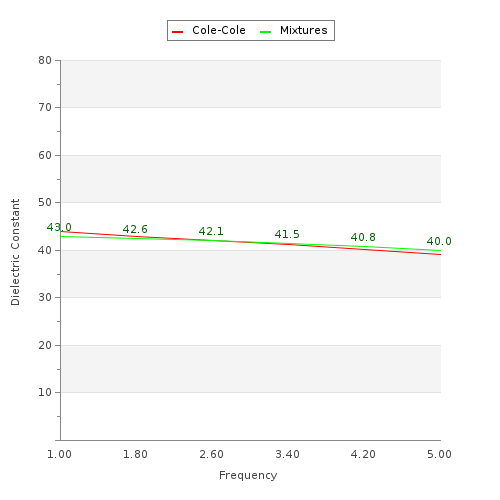
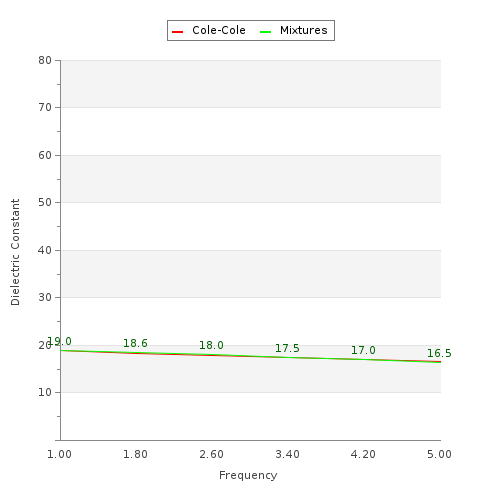
Image elargie

diff --git a/style/style3.css b/style/style3.css
@@ -17,8 +17,10 @@
 }
 
 .paragraph_exp{
-	text-align: left;
+	text-align: justify;
 	margin-bottom: 1.5em;
+	padding: 0% 15% 2% 15%;
+
 }
 
 .red_star_note{
@@ -70,9 +72,9 @@ label{
 
 redStar{
 	font-family: "Noto Sans Bold", sans-serif;
-	font-weight: bold;
+	font-weight: medium;
 	color: #961e64;
-	font-size: 1.1em;
+	font-size: 1em;
 }
 
 #result_line{

diff --git a/style/style.css b/style/style.css
@@ -105,6 +105,7 @@ header
 /************************* SLIDER *********************/
 figure {
 	display: inline-block;
+	vertical-align:middle;
 }
 
 #slideshow {

diff --git a/python/colecole.py b/python/colecole.py
@@ -15,30 +15,30 @@ def colecoleFonction(choix,low_range,high_range,step):
     N=[]
     w=2*math.pi
 
-    ef=[6.03, 6.49, 2.47, 4.0, 2.5, 4.0, 2.5, 2.5, 2.5, 2.5, 4.0, 4.0, 2.5, 4.0, 4.0, 4.0, 4.0, 4.0, 4.0, 4.0, 4.0, 2.5, 2.5, 4.0, 4.0, 5.05, 4.0, 5.9, 4.0, 4.0, 3.0, 4.0, 4.0, 2.5, 4.0, 4.0, 4.0, 4.0, 4.0, 4.0, 4.0, 4.0, 4.0, 4.0, 4.0, 4.0, 2.5, 4.0, 4.0]
-    delta1=[60.8, 50.14, 42.43, 40.0, 16.0, 56.0, 18.0, 10.0, 9.0, 3.0, 45.0, 32.0, 3.0, 38.0, 40.0, 65.0, 45.0, 50.0, 48.0, 40.0, 50.0, 9.0, 3.0, 55.0, 66.0, 44.79, 50.0, 46.33, 47.0, 42.0, 32.0, 39.0, 45.0, 18.0, 50.0, 26.0, 40.0, 32.0, 39.0, 50.0, 48.0, 60.0, 42.0, 55.0, 55.0, 50.0, 38.0, 55.0, 65.0]
-    to1=[8.93, 7.36, 5.19, 8.842, 8.842, 8.377, 13.263, 13.263, 14.469, 7.958, 7.958, 7.958, 17.68, 13.263, 7.958, 7.958, 7.958, 7.958, 7.958, 7.958, 7.958, 7.958, 7.958, 7.579, 7.579, 5.62, 7.958, 6.81, 7.958, 7.958, 8.842, 8.842, 7.958, 7.958, 7.234, 7.958, 8.842, 7.234, 7.958, 7.958, 7.958, 7.958, 12.243, 7.958, 7.958, 7.958, 7.958, 7.958, 7.234]
+    ef=[6.03, 6.49, 2.47, 4.0, 2.5, 4.0, 2.5, 2.5, 2.5, 2.5, 4.0, 4.0, 2.5, 4.0, 4.0, 4.0, 4.0, 4.0, 4.0, 4.0, 4.0, 2.5, 2.5, 4.0, 4.0, 5.05, 4.0, 5.9, 4.0, 4.0, 3.0, 4.0, 4.0, 2.5, 4.0, 4.0, 4.0, 4.0, 4.0, 4.0, 4.0, 4.0, 4.0, 4.0, 4.0, 4.0, 2.5, 4.0, 4.0, 12.71, 14.40, 14.22, 14.75, 12.75, 14.70]
+    delta1=[60.8, 50.14, 42.43, 40.0, 16.0, 56.0, 18.0, 10.0, 9.0, 3.0, 45.0, 32.0, 3.0, 38.0, 40.0, 65.0, 45.0, 50.0, 48.0, 40.0, 50.0, 9.0, 3.0, 55.0, 66.0, 44.79, 50.0, 46.33, 47.0, 42.0, 32.0, 39.0, 45.0, 18.0, 50.0, 26.0, 40.0, 32.0, 39.0, 50.0, 48.0, 60.0, 42.0, 55.0, 55.0, 50.0, 38.0, 55.0, 65.0, 244.73, 19.93, 170.62, 207.25,112.78, 152.86]
+    to1=[8.93, 7.36, 5.19, 8.842, 8.842, 8.377, 13.263, 13.263, 14.469, 7.958, 7.958, 7.958, 17.68, 13.263, 7.958, 7.958, 7.958, 7.958, 7.958, 7.958, 7.958, 7.958, 7.958, 7.579, 7.579, 5.62, 7.958, 6.81, 7.958, 7.958, 8.842, 8.842, 7.958, 7.958, 7.234, 7.958, 8.842, 7.234, 7.958, 7.958, 7.958, 7.958, 12.243, 7.958, 7.958, 7.958, 7.958, 7.958, 7.234, 3.03*10**(3), 0.97*10**(3), 3.31*10**(3), 2.64*10**(3), 2.15*10**(3), 2.50*10**(3)]
     to1=[e*10**(-12) for e in to1]
-    alpha1=[0, 0, 0, 0.1, 0.1, 0.1, 0.22, 0.2, 0.2, 0.2, 0.1, 0.1, 0.1, 0.15, 0.1, 0.1, 0.1, 0.1, 0.1, 0.15, 0.1, 0.2, 0.2, 0.05, 0.05, 0, 0.1, 0, 0.1, 0.1, 0.1, 0.1, 0.1, 0.1, 0.1, 0.1, 0.15, 0.0, 0.1, 0.1, 0.1, 0.1, 0.1, 0.1, 0.1, 0.1, 0.1, 0.1, 0]
-    delta2=[0, 0, 0, 50, 400, 5200, 300, 180, 80, 25, 400, 100, 15, 2500, 700, 40, 200, 3000, 4000, 200, 4000, 35, 15, 40, 50, 0, 1200, 0, 3500, 1500, 100, 6000, 1000, 500, 7000, 500, 400, 1100, 280, 10000, 2500, 2000, 60, 5000, 2500, 4000, 400, 800, 30]
-    to2=[0, 0, 0, 3.183, 159.155, 132.629, 79.577, 79.577, 15.915, 15.915, 15.915, 7.958, 63.66, 144.686, 15.915, 1.592, 15.915, 159.155, 159.155, 7.958, 159.155, 15.915, 15.915, 1.592, 1.592, 0, 159.155, 0, 198.944, 79.577, 10.61, 530.516, 159.155, 63.662, 353.678, 106.103, 15.915, 32.481, 79.577, 159.155, 63.662, 79.577, 6.366, 159.155, 159.155, 159.155, 63.662, 31.831, 159.155]
+    alpha1=[0, 0, 0, 0.1, 0.1, 0.1, 0.22, 0.2, 0.2, 0.2, 0.1, 0.1, 0.1, 0.15, 0.1, 0.1, 0.1, 0.1, 0.1, 0.15, 0.1, 0.2, 0.2, 0.05, 0.05, 0, 0.1, 0, 0.1, 0.1, 0.1, 0.1, 0.1, 0.1, 0.1, 0.1, 0.15, 0.0, 0.1, 0.1, 0.1, 0.1, 0.1, 0.1, 0.1, 0.1, 0.1, 0.1, 0, 0, 0, 0, 0, 0, 0]
+    delta2=[0, 0, 0, 50, 400, 5200, 300, 180, 80, 25, 400, 100, 15, 2500, 700, 40, 200, 3000, 4000, 200, 4000, 35, 15, 40, 50, 0, 1200, 0, 3500, 1500, 100, 6000, 1000, 500, 7000, 500, 400, 1100, 280, 10000, 2500, 2000, 60, 5000, 2500, 4000, 400, 800, 30, 4.59, 3.97, 3.97, 4.27, 5.02, 4.75]
+    to2=[0, 0, 0, 3.183, 159.155, 132.629, 79.577, 79.577, 15.915, 15.915, 15.915, 7.958, 63.66, 144.686, 15.915, 1.592, 15.915, 159.155, 159.155, 7.958, 159.155, 15.915, 15.915, 1.592, 1.592, 0, 159.155, 0, 198.944, 79.577, 10.61, 530.516, 159.155, 63.662, 353.678, 106.103, 15.915, 32.481, 79.577, 159.155, 63.662, 79.577, 6.366, 159.155, 159.155, 159.155, 63.662, 31.831, 159.155, 8.59*10**(-2), 8.51*10**(-2), 1.06*10**(-1), 7.95*10**(-2), 9.42*10**(-2), 7.34*10**(-2)]
     to2=[e*10**(-9) for e in to2]
-    alpha2=[0, 0, 0, 0.1, 0.1, 0.1, 0.25, 0.2, 0.1, 0.1, 0.15, 0.1, 0.1, 0.15, 0.15, 0.0, 0.1, 0.2, 0.05, 0.1, 0.1, 0.1, 0.1, 0.0, 0.0, 0, 0.05, 0, 0.22, 0.1, 0.2, 0.2, 0.1, 0.1, 0.1, 0.15, 0.25, 0.2, 0.0, 0.1, 0.15, 0.1, 0.1, 0.1, 0.1, 0.1, 0.1, 0.1, 0.1]
+    alpha2=[0, 0, 0, 0.1, 0.1, 0.1, 0.25, 0.2, 0.1, 0.1, 0.15, 0.1, 0.1, 0.15, 0.15, 0.0, 0.1, 0.2, 0.05, 0.1, 0.1, 0.1, 0.1, 0.0, 0.0, 0, 0.05, 0, 0.22, 0.1, 0.2, 0.2, 0.1, 0.1, 0.1, 0.15, 0.25, 0.2, 0.0, 0.1, 0.15, 0.1, 0.1, 0.1, 0.1, 0.1, 0.1, 0.1, 0.1, 0, 0, 0, 0, 0, 0]
 
-    sig=[0.71, 1.04, 1.14, 0.25, 0.2, 0.7, 0.07, 0.02, 0.1, 0.001, 0.02, 0.02, 0.01, 0.15, 0.04, 2.0, 0.3, 0.01, 0.4, 0.5, 0.5, 0.035, 0.01, 0.9, 1.4, 0, 0.05, 0, 0.05, 0.3, 0.2, 0.02, 0.2, 0.03, 0.2, 0.006, 0.3, 0.0, 0.0, 0.5, 0.03, 0.5, 0.25, 0.4, 0.5, 0.25, 0.3, 0.2, 1.5]
-    delta3=[0, 0, 0, 0, 10, 0, 2, 0.5, 1, 0.5, 20, 4, 5, 10, 20, 0, 15, 10, 10, 1, 10, 3.3, 3.3, 0.1, 0, 0, 45, 0, 25, 20, 0.1, 5, 50, 25, 120, 7, 10, 0, 3, 50, 20, 10, 6, 10, 10, 10, 5, 30, 0]
+    sig=[0.71, 1.04, 1.14, 0.25, 0.2, 0.7, 0.07, 0.02, 0.1, 0.001, 0.02, 0.02, 0.01, 0.15, 0.04, 2.0, 0.3, 0.01, 0.4, 0.5, 0.5, 0.035, 0.01, 0.9, 1.4, 0, 0.05, 0, 0.05, 0.3, 0.2, 0.02, 0.2, 0.03, 0.2, 0.006, 0.3, 0.0, 0.0, 0.5, 0.03, 0.5, 0.25, 0.4, 0.5, 0.25, 0.3, 0.2, 1.5, 0.21, 0.704, 0.433, 0.141, 0.286, 0.319]
+    delta3=[0, 0, 0, 0, 10, 0, 2, 0.5, 1, 0.5, 20, 4, 5, 10, 20, 0, 15, 10, 10, 1, 10, 3.3, 3.3, 0.1, 0, 0, 45, 0, 25, 20, 0.1, 5, 50, 25, 120, 7, 10, 0, 3, 50, 20, 10, 6, 10, 10, 10, 5, 30, 0, 42.98*10**(-4), 36.31*10**(-4), 41.88*10**(-4), 33.65*10**(-4), 34.14*10**(-4), 34.59*10**(-4)]
     delta3=[e*10**4 for e in delta3]
-    to3=[0, 0, 0, 159.155, 159.155, 159.155, 159.155, 159.155, 1591.549, 1591.549, 106.103, 53.052, 454.7, 318.31, 106.103, 159.155, 106.103, 159.155, 15.915, 159.155, 159.155, 159.155, 159.155, 159.155, 159.155, 0, 72.343, 0, 79.577, 159.155, 15.915, 22.736, 159.155, 159.155, 318.31, 15.915, 159.155, 159.155, 1.592, 159.155, 265.258, 159.155, 318.31, 159.155, 159.155, 159.155, 15.915, 159.155, 159.155]
+    to3=[0, 0, 0, 159.155, 159.155, 159.155, 159.155, 159.155, 1591.549, 1591.549, 106.103, 53.052, 454.7, 318.31, 106.103, 159.155, 106.103, 159.155, 15.915, 159.155, 159.155, 159.155, 159.155, 159.155, 159.155, 0, 72.343, 0, 79.577, 159.155, 15.915, 22.736, 159.155, 159.155, 318.31, 15.915, 159.155, 159.155, 1.592, 159.155, 265.258, 159.155, 318.31, 159.155, 159.155, 159.155, 15.915, 159.155, 159.155, 9.64*10**(-6), 1.07*10**(-5), 1.02*10**(-5), 1.11*10**(-5), 1.08*10**(-5), 9.99*10**(-6)]
     to3=[e*10**(-6) for e in to3]
-    alpha3=[0, 0, 0, 0.2, 0.2, 0.2, 0.2, 0.2, 0.1, 0.1, 0.22, 0.3, 0.1, 0.1, 0.22, 0.0, 0.18, 0.2, 0.2, 0.2, 0.2, 0.05, 0.05, 0.2, 0.2, 0, 0.22, 0, 0.22, 0.1, 0.2, 0.2, 0.2, 0.2, 0.1, 0.2, 0.27, 0.2, 0.16, 0.2, 0.25, 0.2, 0.22, 0.2, 0.2, 0.2, 0.2, 0.2, 0.0]
+    alpha3=[0, 0, 0, 0.2, 0.2, 0.2, 0.2, 0.2, 0.1, 0.1, 0.22, 0.3, 0.1, 0.1, 0.22, 0.0, 0.18, 0.2, 0.2, 0.2, 0.2, 0.05, 0.05, 0.2, 0.2, 0, 0.22, 0, 0.22, 0.1, 0.2, 0.2, 0.2, 0.2, 0.1, 0.2, 0.27, 0.2, 0.16, 0.2, 0.25, 0.2, 0.22, 0.2, 0.2, 0.2, 0.2, 0.2, 0.0, 0, 0, 0, 0, 0, 0]
 
-    delta4=[0, 0, 0, 1, 1, 0, 2, 0.01, 0.2, 0.2, 4.5, 3.5, 2, 4, 4.5, 0, 4, 4, 4, 0.1, 0.5, 1, 1, 0.001, 0, 0, 2.5, 0, 3, 4, 0.0005, 3, 1, 4, 2.5, 4, 4, 0, 0.003, 4, 5, 4, 2, 4, 4, 4, 0.1, 3.5, 0]
+    delta4=[0, 0, 0, 1, 1, 0, 2, 0.01, 0.2, 0.2, 4.5, 3.5, 2, 4, 4.5, 0, 4, 4, 4, 0.1, 0.5, 1, 1, 0.001, 0, 0, 2.5, 0, 3, 4, 0.0005, 3, 1, 4, 2.5, 4, 4, 0, 0.003, 4, 5, 4, 2, 4, 4, 4, 0.1, 3.5, 0, 0, 0, 0, 0, 0, 0]
     delta4=[e*10**7 for e in delta4]
-    to4=[0, 0, 0, 1.592, 15.915, 15.915, 15.915, 15.915, 15.915, 15.915, 5.305, 7.958, 13.26, 15.915, 5.305, 15.915, 1.592, 1.592, 15.915, 15.915, 15.915, 15.915, 7.958, 15.915, 15.915, 0, 4.547, 0, 4.547, 15.915, 15.915, 15.915, 15.915, 7.958, 2.274, 15.915, 15.915, 15.915, 1.592, 15.915, 6.366, 15.915, 1.326, 15.915, 15.915, 15.915, 15.915, 1.061, 15.915]
+    to4=[0, 0, 0, 1.592, 15.915, 15.915, 15.915, 15.915, 15.915, 15.915, 5.305, 7.958, 13.26, 15.915, 5.305, 15.915, 1.592, 1.592, 15.915, 15.915, 15.915, 15.915, 7.958, 15.915, 15.915, 0, 4.547, 0, 4.547, 15.915, 15.915, 15.915, 15.915, 7.958, 2.274, 15.915, 15.915, 15.915, 1.592, 15.915, 6.366, 15.915, 1.326, 15.915, 15.915, 15.915, 15.915, 1.061, 15.915, 0, 0, 0, 0, 0, 0]
     to4=[e*10**(-3) for e in to4]
-    alpha4=[0, 0, 0, 0, 0, 0, 0, 0, 0.1, 0.1, 0, 0.02, 0, 0, 0, 0, 0, 0, 0, 0, 0, 0.01, 0.01, 0, 0.2, 0, 0, 0, 0, 0, 0, 0.05, 0, 0, 0, 0, 0, 0.2, 0.2, 0, 0, 0, 0, 0, 0, 0, 0, 0, 0]
+    alpha4=[0, 0, 0, 0, 0, 0, 0, 0, 0.1, 0.1, 0, 0.02, 0, 0, 0, 0, 0, 0, 0, 0, 0, 0.01, 0.01, 0, 0.2, 0, 0, 0, 0, 0, 0, 0.05, 0, 0, 0, 0, 0, 0.2, 0.2, 0, 0, 0, 0, 0, 0, 0, 0, 0, 0, 0, 0, 0, 0, 0, 0]
 
-    noms_tissu=["Adenocarninoma","Adenoma_HGD","Adenoma_LGD","Aorta", "Bladder", "Blood", "Bone_Cancellous", "Bone_Cortical", "Bone_Marrow_Infiltrated", "Bone_Marrow_Not_Infiltrated", "Brain_Grey_Matter", "Brain_White_Matter", "Breast_Fat", "Cartilage", "Cerebellum", "Cerebro_Spinal_Fluid", "Cervix", "Colon", "Cornea", "Dura", "Eye_Tissues_Sclera", "Fat_Average_Infiltrated", "Fat_Not_Infiltrated", "Gall_Bladder", "Gall_Bladder_Bile", "Healthy_mucosa", "Heart", "Hyperplastic", "Kidney", "Lens_Cortex", "Lens_Nucleus", "Liver", "Lung_Deflated", "Lung_Inflated", "Muscle", "Nerve", "Ovary", "Skin_Dry", "Skin_Wet", "Small_Intestine", "Spleen", "Stomach", "Tendon", "Testis", "Thyroid", "Tongue", "Trachea", "Uterus", "Vitreous_Humor"]
+    noms_tissu=["Adenocarninoma","Adenoma_HGD","Adenoma_LGD","Aorta", "Bladder", "Blood", "Bone_Cancellous", "Bone_Cortical", "Bone_Marrow_Infiltrated", "Bone_Marrow_Not_Infiltrated", "Brain_Grey_Matter", "Brain_White_Matter", "Breast_Fat", "Cartilage", "Cerebellum", "Cerebro_Spinal_Fluid", "Cervix", "Colon", "Cornea", "Dura", "Eye_Tissues_Sclera", "Fat_Average_Infiltrated", "Fat_Not_Infiltrated", "Gall_Bladder", "Gall_Bladder_Bile", "Healthy_mucosa", "Heart", "Hyperplastic", "Kidney", "Lens_Cortex", "Lens_Nucleus", "Liver", "Lung_Deflated", "Lung_Inflated", "Muscle", "Nerve", "Ovary", "Skin_Dry", "Skin_Wet", "Small_Intestine", "Spleen", "Stomach", "Tendon", "Testis", "Thyroid", "Tongue", "Trachea", "Uterus", "Vitreous_Humor","Artial_Appendage_Int","Artial_Appendage_Ext","Endocardiom","Epicardium","Myocardium","Great_Vessel","Breastskin_   "]
     index_tissu=noms_tissu.index(choix)
     n=index_tissu
 

diff --git a/simulation.php b/simulation.php
@@ -18,17 +18,6 @@
 			<div class="page_title">
 				<h1>Simulation</h1>
 			</div>
-			<div class="paragraph_exp">
-				<h4>Experimental Protocol</h4>
-				<ul>
-					<li>Tar the balance with an empty beaker.</li>
-					<li>Add successively the masses of NaCl and water and tare the balance between each step.</li>
-					<li>Stir the solution with a magnetic bar - when the salt is dissolved, tare the balance.</li>
-					<li>Add the salted water to the beaker of TritonX-100. Note that, the TritonX- 100 is very viscous at room temperature, then it must be heated first separately, in a 45 ° C water bath.</li>
-					<li>Place the beaker in a water bath at 45° C and stir the solution with a magnetic bar. The bath water must cover all the mixture. Note that the 40-60% solutions of TritonX-100 are gelled at room temperature, it is therefore necessary to increase the temperature to 45 ° C to obtain homogeneous mixtures in all cases.</li>
-					<li>Once the solution is homogeneous, pour it into an airtight container and keep the sample safe from light.</li>
-				</ul>
-			</div>
 
 			<div class="simulator_form">
 
@@ -42,12 +31,13 @@
 					<div class="simulation_cases_label">
 							<label for="choice">Tissue to mimic <redStar>*</redStar></label>
 					</div>
+
 					<div class="simulation_cases">
 							<select id="tissu_selection" name="choice" required>
 						<option value="Choice" disabled selected>Choose one in the list</option>
-						<option value="Adenocarninoma" <?php echo (isset($_POST['choice']) && $_POST['choice'] === 'Adenocarninoma') ? 'selected' : ''; ?>>Adenocarninoma</option>
-						<option value="Adenoma_HGD" <?php echo (isset($_POST['choice']) && $_POST['choice'] === 'Adenoma_HGD') ? 'selected' : ''; ?>>Adenoma HGD</option>
-						<option value="Adenoma_LGD" <?php echo (isset($_POST['choice']) && $_POST['choice'] === 'Adenoma_LGD') ? 'selected' : ''; ?>>Adenoma LGD</option>
+						<option value="Adenocarninoma" <?php echo (isset($_POST['choice']) && $_POST['choice'] === 'Adenocarninoma') ? 'selected' : ''; ?>>Adenocarninoma [3]</option>
+						<option value="Adenoma_HGD" <?php echo (isset($_POST['choice']) && $_POST['choice'] === 'Adenoma_HGD') ? 'selected' : ''; ?>>Adenoma HGD [3]</option>
+						<option value="Adenoma_LGD" <?php echo (isset($_POST['choice']) && $_POST['choice'] === 'Adenoma_LGD') ? 'selected' : ''; ?>>Adenoma LGD [3]</option>
 						<option value="Aorta" <?php echo (isset($_POST['choice']) && $_POST['choice'] === 'Aorta') ? 'selected' : ''; ?>>Aorta</option>
 						<option value="Bladder" <?php echo (isset($_POST['choice']) && $_POST['choice'] === 'Bladder') ? 'selected' : ''; ?>>Bladder</option>
 						<option value="Blood" <?php echo (isset($_POST['choice']) && $_POST['choice'] === 'Blood') ? 'selected' : ''; ?>>Blood</option>
@@ -70,9 +60,15 @@
 						<option value="Fat_Not_Infiltrated" <?php echo (isset($_POST['choice']) && $_POST['choice'] === 'Fat_Not_Infiltrated') ? 'selected' : ''; ?>>Fat Not Infiltrated</option>
 						<option value="Gall_Bladder" <?php echo (isset($_POST['choice']) && $_POST['choice'] === 'Gall_Bladder') ? 'selected' : ''; ?>>Gall Blader</option>
 						<option value="Gall_Bladder_Bile" <?php echo (isset($_POST['choice']) && $_POST['choice'] === 'Gall_Bladder_Bile') ? 'selected' : ''; ?>>Gall Bladder Bile</option>
-						<option value="Healthy_mucosa" <?php echo (isset($_POST['choice']) && $_POST['choice'] === 'Healthy_mucosa') ? 'selected' : ''; ?>>Healthy mucosa</option>
+						<option value="Healthy_mucosa" <?php echo (isset($_POST['choice']) && $_POST['choice'] === 'Healthy_mucosa') ? 'selected' : ''; ?>>Healthy mucosa [3]</option>
 						<option value="Heart" <?php echo (isset($_POST['choice']) && $_POST['choice'] === 'Heart') ? 'selected' : ''; ?>>Heart</option>
-						<option value="Hyperplastic" <?php echo (isset($_POST['choice']) && $_POST['choice'] === 'Hyperplastic') ? 'selected' : ''; ?>>Hyperplastic</option>
+						<option value="Artial_Appendage_Int" <?php echo (isset($_POST['choice']) && $_POST['choice'] === 'Artial_Appendage_Int') ? 'selected' : ''; ?>>Heart - Artial Appendage (Interior) [4]</option>
+						<option value="Artial_Appendage_Ext" <?php echo (isset($_POST['choice']) && $_POST['choice'] === 'Artial_Appendage_Ext') ? 'selected' : ''; ?>>Heart - Artial Appendage (Exterior) [4]</option>
+						<option value="Endocardiom" <?php echo (isset($_POST['choice']) && $_POST['choice'] === 'Endocardiom') ? 'selected' : ''; ?>>Heart - Endocardiom [4]</option>
+						<option value="Epicardium" <?php echo (isset($_POST['choice']) && $_POST['choice'] === 'Epicardium') ? 'selected' : ''; ?>>Heart - Epicardium [4]</option>
+						<option value="Myocardium" <?php echo (isset($_POST['choice']) && $_POST['choice'] === 'Myocardium') ? 'selected' : ''; ?>>Heart - Myocardium [4]</option>
+						<option value="Great_Vessel" <?php echo (isset($_POST['choice']) && $_POST['choice'] === 'Great_Vessel') ? 'selected' : ''; ?>>Heart - Great Vessel (Luminal Vessel) [4]</option>
+						<option value="Hyperplastic" <?php echo (isset($_POST['choice']) && $_POST['choice'] === 'Hyperplastic') ? 'selected' : ''; ?>>Hyperplastic [3]</option>
 						<option value="Kidney" <?php echo (isset($_POST['choice']) && $_POST['choice'] === 'Kidney') ? 'selected' : ''; ?>>Kidney</option>
 						<option value="Lens_Cortex" <?php echo (isset($_POST['choice']) && $_POST['choice'] === 'Lens_Cortex') ? 'selected' : ''; ?>>Lens Cortex</option>
 						<option value="Lens_Nucleus" <?php echo (isset($_POST['choice']) && $_POST['choice'] === 'Lens_Nucleus') ? 'selected' : ''; ?>>Lens Nucleus</option>
@@ -99,7 +95,7 @@
 
 					<!-- Number of points -->
 					<div class="simulation_cases_label">
-							<label for="numberPoints">Number of points <redStar>*</redStar></label><br>
+							<label for="numberPoints">Number of frequency points <redStar>*</redStar></label><br>
 					</div>
 					<div class="simulation_cases">
 							<input class="case" type="number" min="0" max="200" name="numberPoints"  placeholder="<?php echo isset($_POST['numberPoints']) ? htmlspecialchars($_POST['numberPoints'], ENT_QUOTES) : htmlspecialchars("ex: 10 ..."); ?>"
@@ -233,11 +229,25 @@
 	<?php include("manager/masse.php"); ?>
 
 	<?php if(isset($_POST["mixtureResults"])): ?>
+
 	<div id="phrase_mixture">
-			For a mixture of <strong> <?= $input_volumebecher; ?>  mL</strong>, please use:
-				<br><br>NaCl mass: <strong><?= number_format($recipe_array[0], 1, ".", " "); ?> g</strong><br>
-				TritonX100 mass: <strong><?= number_format($recipe_array[1], 1, ".", " "); ?> g</strong><br>
-				Water mass: <strong><?= number_format($recipe_array[2], 1, ".", " "); ?> g</strong><br>
+			For a mixture of <redStar> <?= $input_volumebecher; ?>  mL</redStar>, please use:
+				<br><br>NaCl mass: <redStar><?= number_format($recipe_array[0], 1, ".", " "); ?> g</redStar><br>
+				TritonX100 mass: <redStar><?= number_format($recipe_array[1], 1, ".", " "); ?> g</redStar><br>
+				Water mass: <redStar><?= number_format($recipe_array[2], 1, ".", " "); ?> g</redStar><br><br>
+				Quadratic error: <redStar><?= number_format($recipe_array[3], 2, ".", " "); ?> %</redStar><br>
+	</div>
+	<br>
+	<div class="paragraph_exp">
+		<h4>Experimental Protocol</h4>
+		<ul>
+			<li>Tar the balance with an empty beaker.</li>
+			<li>Add successively the masses of NaCl and water and tare the balance between each step.</li>
+			<li>Stir the solution with a magnetic bar - when the salt is dissolved, tare the balance.</li>
+			<li>Add the salted water to the beaker of TritonX-100. Note that, the TritonX- 100 is very viscous at room temperature, then it must be heated first separately, in a 45 ° C water bath.</li>
+			<li>Place the beaker in a water bath at 45° C and stir the solution with a magnetic bar. The bath water must cover all the mixture. Note that the 40-60% solutions of TritonX-100 are gelled at room temperature, it is therefore necessary to increase the temperature to 45 ° C to obtain homogeneous mixtures in all cases.</li>
+			<li>Once the solution is homogeneous, pour it into an airtight container and keep the sample safe from light.</li>
+		</ul>
 	</div>
 	<?php endif ?>
 

diff --git a/index.php b/index.php
@@ -2,7 +2,7 @@
 <html>
 <head>
 	<meta charset="utf-8" />
-	<title>Calculateur en ligne</title>
+	<title>TMM GeePs Website</title>
 	<link rel="stylesheet" href="style/style.css">
 	<link rel="stylesheet" href="https://cdnjs.cloudflare.com/ajax/libs/font-awesome/4.7.0/css/font-awesome.css">
 	<link href='http://fonts.googleapis.com/css?family=Mr+Dafoe' rel='stylesheet' type='text/css'>
@@ -40,7 +40,7 @@
 					<img src="image/camera1.jpg" alt="" width="640" height="310" />
 				</figure><!--
 				--><figure>
-					<img src="image/Modèles têtes.png" alt="" width="640" height="310" />
+					<img src="image/Modèles têtes.png" alt="" width="640" height="auto" />
 				</figure>
 			</div>
 		</div>
@@ -52,15 +52,33 @@
 <section>
 	<div id="txtexplication">
 	<h1>Topic presentation</h1> <br>
-	<h4>Introduction</h4>
-	<p>During the last decades, microwave imaging has attracted remarkable attention for biomedical applications mainly due to the significant contrast between the dielectric properties of normal and abnormal tissues. Compared to the other conventional imaging modalities, such as X–ray mammography, microwave imaging is an attractive approach in several aspects, namely its non–ionizing nature, low cost, and compactness of the equipment associated with its hardware system.
-		This is the reason why, at the present time, there are multiple research teams around the world working on bio-medical applications of microwave imaging. This is evidenced by the emergence of several COST and particularly, MiMed. The latter gave rise to several projects; among them, the European project “EMERALD” (ElectroMagnetic Imaging for a novel genERation of medicAL Devices) has started. EMERALD is a multidisciplinary project involving 27 partners across the Europe. It offers a unique opportunity for interactions between clinicians, researchers and instrumentation
-		developers. <br>
-		Newly designed devices require multiple tests under a controlled environment before moving to human clinical test. This website is mainly concerned with the development and realization of the biological phantoms dedicated to test the microwaving imaging devices and particularly is well suited to a remote developement. To be more specific,the website allows the user to produce liquid mixtures mimicking any type of biological tissue [1] referenced in the Gabriel database [2], at least over a range of frequencies [1 to 5 GHz]. The database has been extended thanks to data from literature [3][4]. Moreover, from this website you can download .stl files corresponding to the printed head phantoms and to their numerical version which can be used for electromagnetic simulations<br>
+	<h4>INTRODUCTION</h4>
+	<?php $num = 0 ?>
+	<p>During the last decades, microwave imaging has attracted remarkable attention for biomedical applications mainly due to the significant contrast between
+		the dielectric properties of normal and abnormal tissues. Compared to the other conventional imaging modalities, such as X–ray mammography, microwave imaging
+		is an attractive approach in several aspects, namely its non–ionizing nature, low cost, and compactness of the equipment associated with its hardware system.
+		This is the reason why, at the present time, there are multiple research teams around the world working on bio-medical applications of microwave imaging.
+		This is evidenced by the emergence of several COST and particularly, MiMed. The latter gave rise to several projects; among them, the European
+		project “EMERALD” (ElectroMagnetic Imaging for a novel genERation of medicAL Devices) has started. EMERALD is a multidisciplinary project involving 27 partners
+		across the Europe. It offers a unique opportunity for interactions between clinicians, researchers and instrumentation
+		developers.
+		Newly designed devices require multiple tests under a controlled environment before moving to human clinical test. This website is mainly concerned with
+		the development and realization of the biological phantoms dedicated to test the microwaving imaging devices and particularly is well suited to a remote developement.
+		To be more specific,the website allows the user to produce liquid mixtures mimicking any type of biological tissue <a href="url" target="_blank">[<?php $num++; echo $num; ?>]</a> referenced
+		in the Gabriel database <a href="url" target="_blank">[<?php $num++; echo $num; ?>]</a>, at least over a range of frequencies [1 to 5 GHz]. The database has been extended thanks to data from
+		literature <a href="url" target="_blank">[<?php $num++; $colon = $num; echo $num; ?>]</a><a href="url" target="_blank">[<?php $num++; echo $num; ?>]</a>. Moreover, from this website you can download .stl files corresponding
+		to the printed head phantoms and to their numerical version which can be used for electromagnetic simulations<br>
 
 	</p>
-	<h4>Triton X-100 and salted water solutions</h4>
-	<p>Used in the framework on the EMERALD project, the manufacturing process has to be easily reproducible by an electrical engineer in a non-specific environment (no hood), and without drastic precautions. Following our previous works [5][6], the phantoms such as the breast, head [7] and thorax [8] are composed of 3D printed cavities filled up with liquid binary mixtures of Triton X-100 (TX-100, a non-ionic surfactant) and salted water. Those liquid mixtures are adjustable in time therefore their use in the manufacturing process, provide stable phantoms over time. Moreover, the TritonX's and salt's concentrations are given by a Gauss-Newton algorithm [9] based on a binary law (Bottcher [10] or Krasczewski [11]). The algorithm used as reference values provided from the database. </p>
+	<h4>TRITON X-100 AND SALTED WATER SOLUTIONS</h4>
+	<p>Used in the framework on the EMERALD project, the manufacturing process has to be easily reproducible by an electrical
+		 engineer in a non-specific environment (no hood), and without drastic precautions. Following our previous
+		 works <a href="url" target="_blank">[<?php $num++; echo $num; ?>]</a><a href="url" target="_blank">[<?php $num++; echo $num; ?>]</a>, the phantoms
+		 such as the breast, head <a href="url" target="_blank">[<?php $num++; echo $num; ?>]</a> and thorax <a href="url" target="_blank">[<?php $num++; echo $num; ?>]</a> are composed
+		 of 3D printed cavities filled up with liquid binary mixtures of Triton X-100 (TX-100, a non-ionic surfactant) and salted water. Those liquid
+		 mixtures are adjustable in time therefore their use in the manufacturing process, provide stable phantoms over time. Moreover, the TritonX's and
+		 salt's concentrations are given by a Gauss-Newton algorithm <a href="url" target="_blank">[<?php $num++; echo $num; ?>]</a> based on a binary law (Bottcher <a href="url" target="_blank">[<?php $num++; echo $num; ?>]</a>
+		 or Krasczewski <a href="url" target="_blank">[<?php $num++; echo $num; ?>]</a>). The algorithm used as reference values provided from the database. </p>
 	</div>
 </section>
 

diff --git a/python/opti.py b/python/opti.py
@@ -6,10 +6,17 @@ from epsieau import EPSSIG
 def optiFonction(T,ST,V1,RLOI,input_choice, low_range_input, high_range_input,round_step_input):
     EPS_Tissu, SIG_Tissu = colecoleFonction(input_choice, low_range_input, high_range_input,round_step_input)
     NFRE = len(EPS_Tissu)
-    DELTA = 2.14
-    TAU = 30.2 * 1e-12
-    EPSINF = 3.35
-    SIG0 = 0.1
+
+    # DELTA = 2.14
+    # TAU = 30.2 * 1e-12
+    # EPSINF = 3.35
+    # SIG0 = 0.1
+
+    DELTA = 2.58
+    TAU = 41.6 * 1e-12
+    EPSINF = 3.51
+    SIG0 = 0.066
+
     FREQMI = low_range_input* 1e9
     PASFRE = round_step_input * 1e9
 
@@ -17,8 +24,8 @@ def optiFonction(T,ST,V1,RLOI,input_choice, low_range_input, high_range_input,ro
     S = ST/V2
     EPFACT = 1e-9/(36*math.pi)
     N = 0
-    F01 = 1
-    F01_avant = 2
+    F02 = 1
+    F02_avant = 2
     SOMEPS = 0
     EPSTISSU = []
     X1 = S
@@ -32,9 +39,9 @@ def optiFonction(T,ST,V1,RLOI,input_choice, low_range_input, high_range_input,ro
 
     while  (N < 20):
 
-        if abs(F01-F01_avant)<= 0.00000001:
+        if abs(F02-F02_avant)<= 0.00000001:
             break
-        F01_avant = F01
+        F02_avant = F02
         F01 = 0
         GRAD1 = 0
         GRAD2 = 0
@@ -90,7 +97,7 @@ def optiFonction(T,ST,V1,RLOI,input_choice, low_range_input, high_range_input,ro
             FI = LOGEPS - EPSTISSU[i]
             W = 1 / abs(EPSTISSU[i])**2
 
-            F01 = W * abs(FI)**2 + F01
+            F01 = abs(FI)**2 + F01
             GRAD1 = GRAD1 + 2 * W * (DFDS * FI.conjugate()).real
             GRAD2 = GRAD2  + 2 * W * (DFDV * FI.conjugate()).real
             HES00 = HES00 + 2 * W * abs(DFDS)**2
@@ -110,5 +117,8 @@ def optiFonction(T,ST,V1,RLOI,input_choice, low_range_input, high_range_input,ro
         V1 = 1 - V2
         ST = S * V2
         N = N + 1
+        F02 = F01 / SOMEPS
+        if V1 > 1:
+            V1 = 1
 
-    return(N,ST,V1,F01,EPSOL,SIGSOL)
+    return(N,ST,V1,F02,EPSOL,SIGSOL)

diff --git a/manager/optimInput.php b/manager/optimInput.php
@@ -27,11 +27,8 @@ $opti_output2 = $opti_output;
 $opti_output = str_replace("[", "", $opti_output);
 $opti_output = str_replace("]", "", $opti_output);
 
-#var_dump($opti_output);
-
-
 $number_of_comas_opti = substr_count($opti_output,",");
-#var_dump($number_of_comas_opti);
+
 
 $opti_array = (array) null;
 
@@ -50,36 +47,21 @@ foreach ($opti_array as  &$value) {
   $value = number_format($value, 4, ".", " "); # formatage des valeur à 4 decimales
 }
 
-// var_dump($opti_output2)
-
-
 
 for ($i = 1; $i <= 4 ; $i++){
   $pos2 = strpos($opti_output2, ",");
-  // var_dump($pos2);
 
-  if (i==3) {
-    $F01 = substr($opti_output2, 0, $pos2+2);
+  if ($i==4) {
+    $F01 = substr($opti_output2, 0, $pos2);
   }
 
-  $pos2 = strpos($opti_output2, ",");
   $opti_output2 = substr($opti_output2, $pos2+2, strlen($opti_output2));
-
-  // echo nl2br("\n");
-  // echo nl2br("\n");
-  //
-  // var_dump($pos2);
-  // echo nl2br("\n");
-
-  // var_dump($opti_output2);
-
 }
 
-// var_dump($F01);
 
 $opti_output2 = substr($opti_output2, 1 , strlen($opti_output2));
-#var_dump($opti_output2);
 
+$F01 = floatval($F01) * 100;
 #-------Liste des epsilon-------------
 $end_list_epsi2 = strpos($opti_output2, "[");
 $epsi_output2 = substr($opti_output2, 0, $end_list_epsi2);

diff --git a/python/masse.py b/python/masse.py
@@ -14,5 +14,11 @@ def calculmasse (T,ST,V1,RLOI,input_choice, low_range_input, high_range_input,ro
     massetx = (cVtx * VTOT/100) * rotx
 
     masseeau = (VTOT-(cVtx * VTOT/100)- (massenacl / roNACL)) * roeau
+    if massenacl<0:
+        return (0,massetx,masseeau)
+    if massetx <0 :
+        return (massenacl,0,masseeau)
+    if masseeau<0:
+        return (massenacl,massetx,0)
 
     return(massenacl,massetx,masseeau)

diff --git a/manager/masse.php b/manager/masse.php
@@ -32,4 +32,5 @@ foreach ($recipe_array as  &$value) {
 
 #var_dump($recipe_array[1]);
 
+array_push($recipe_array,$F01);
  ?>
